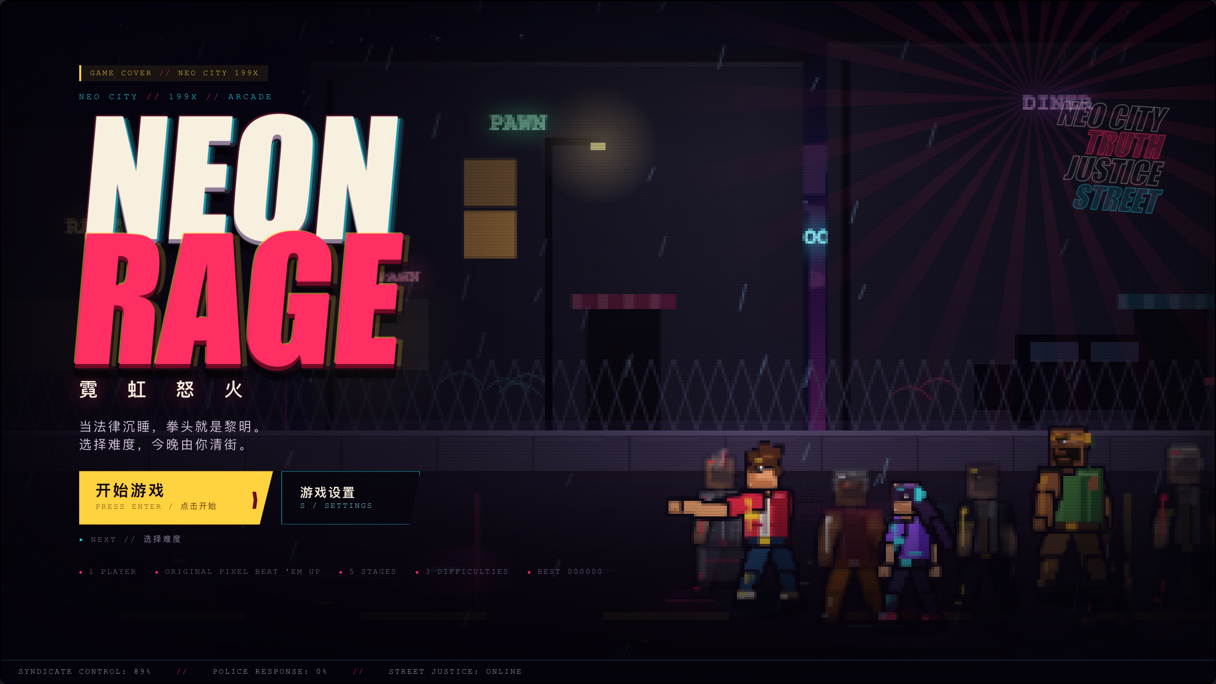
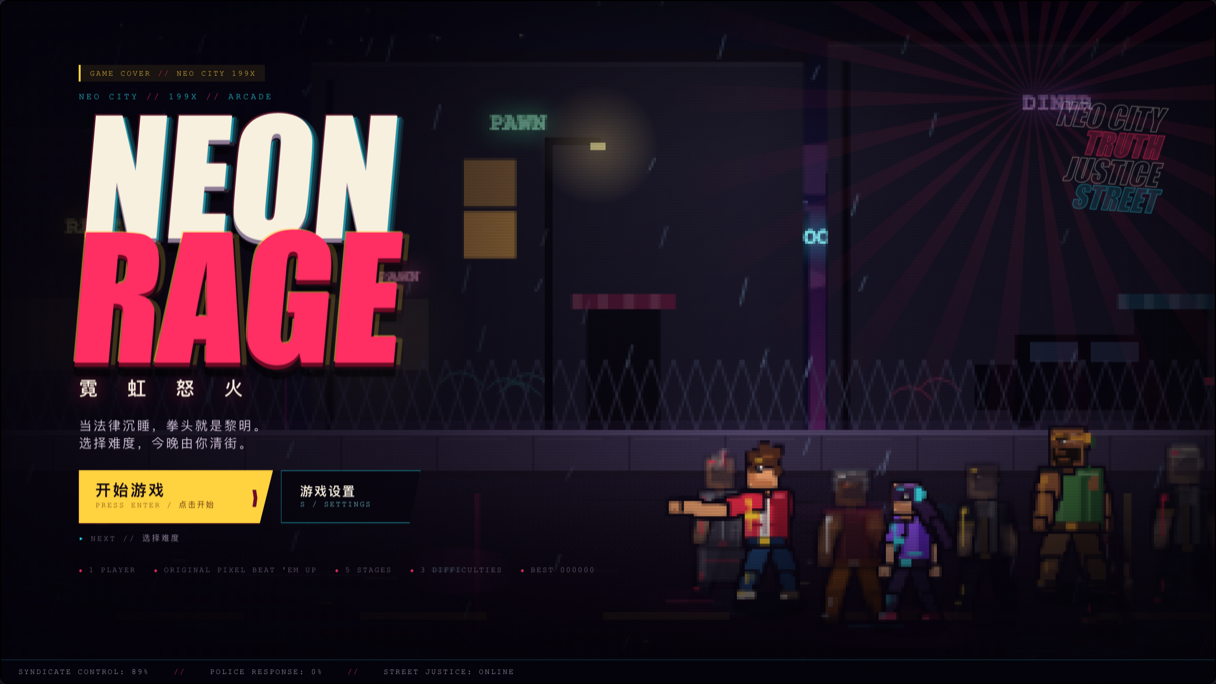
v0.2.3: larger frame, bigger settings text and dedicated boss BGM

diff --git a/neon-rage.html b/neon-rage.html
@@ -77,7 +77,7 @@ button:focus-visible, [tabindex]:focus-visible {
 
 .page {
   position: relative; z-index: 1;
-  width: min(1240px, calc(100% - 32px));
+  width: min(1488px, calc(100% - 16px));
   min-height: 100svh;
   margin: 0 auto;
   padding: 8px 0 6px;
@@ -1049,7 +1049,8 @@ body.touch-mode .toast { bottom: 30%; }
 
 @media (min-width: 900px) {
   body { overflow-y: auto; }
-  .page { min-height: 100svh; }
+  .page { min-height: 100svh; padding-bottom: 0; }
+  .cabinet { padding-bottom: 1px; }
 }
 @media (max-height: 900px) {
   .cabinet-footer { display: none; }
@@ -1177,6 +1178,65 @@ body.touch-mode .toast { bottom: 30%; }
     transition-duration: .001ms !important;
     scroll-behavior: auto !important;
   }
+}
+
+
+/* ————— enlarged game frame / settings readability ————— */
+.settings-card {
+  width: min(94cqw, 1320px);
+  max-height: 94%;
+  padding: 1.4cqw 1.6cqw 1cqw;
+}
+.settings-head h2 { font-size: clamp(24px, 4.4cqw, 58px); }
+.settings-head p { font-size: clamp(14px, 1.08cqw, 18px); }
+.settings-head .ghost-btn { font-size: clamp(12px, .9cqw, 15px); padding: .7cqw 1cqw; }
+.settings-tabs { gap: .45cqw; margin-top: 1cqw; padding-bottom: .65cqw; }
+.settings-tab { font-size: clamp(14px, 1.3cqw, 20px); padding: .55cqw 1.05cqw; }
+.settings-body { padding: .9cqw .35cqw .65cqw; }
+.settings-panel-title { gap: .7cqw; margin-bottom: .7cqw; }
+.settings-panel-title b { font-size: clamp(13px, 1.1cqw, 17px); }
+.settings-panel-title span { font-size: clamp(13px, 1.08cqw, 17px); }
+.music-options { gap: .55cqw; }
+.music-option { gap: .8cqw; padding: .7cqw .85cqw; }
+.music-copy b { font-size: clamp(17px, 1.4cqw, 22px); }
+.music-copy em { font-size: clamp(14px, 1.08cqw, 18px); }
+.music-copy small { font-size: clamp(14px, 1.06cqw, 18px); line-height: 1.4; }
+.music-tag { font-size: clamp(10px, .78cqw, 13px); }
+.music-radio { width: 1.2cqw; height: 1.2cqw; min-width: 12px; min-height: 12px; }
+.settings-note { font-size: clamp(14px, 1.08cqw, 18px); margin-top: .8cqw; }
+.settings-keys { gap: .55cqw 1.1cqw; }
+.settings-keys div { font-size: clamp(14px, 1.15cqw, 18px); }
+.settings-keys kbd { font-size: clamp(12px, 1.0cqw, 15px); }
+.settings-guide { gap: .5cqw; }
+.settings-guide li { font-size: clamp(16px, 1.28cqw, 20px); line-height: 1.55; padding-left: 1.1cqw; }
+.settings-about p { font-size: clamp(15px, 1.2cqw, 19px); line-height: 1.6; margin-bottom: .7cqw; }
+.settings-about .fineprint { font-size: clamp(12px, .98cqw, 16px); }
+.settings-foot { padding-top: .7cqw; }
+.settings-foot > span { font-size: clamp(11px, .9cqw, 15px); }
+.settings-foot .arcade-btn.compact { min-width: 13cqw; padding: .7cqw 2.3cqw .75cqw 1.1cqw; }
+.settings-foot .arcade-btn.compact .btn-main { font-size: clamp(13px, 1.05cqw, 17px); }
+.settings-foot .arcade-btn.compact .btn-sub { font-size: clamp(9px, .65cqw, 12px); }
+.settings-foot .arcade-btn.compact::after { font-size: 2cqw; }
+
+@media (max-width: 700px) {
+  .settings-card { width: 96cqw; padding: 1cqw 1.1cqw .7cqw; }
+  .settings-head h2 { font-size: clamp(20px, 5cqw, 28px); }
+  .settings-head .ghost-btn { font-size: clamp(9px, 2.4cqw, 13px); }
+  .settings-tab { font-size: clamp(9px, 2.7cqw, 14px); padding: .4cqw .6cqw; }
+  .settings-body { padding: .55cqw .2cqw .4cqw; }
+  .settings-panel-title b, .settings-panel-title span { font-size: clamp(9px, 2.3cqw, 13px); }
+  .music-copy b { font-size: clamp(13px, 3.2cqw, 17px); }
+  .music-copy em, .music-copy small { font-size: clamp(10px, 2.6cqw, 14px); }
+  .music-option { padding: .5cqw .55cqw; gap: .45cqw; }
+  .music-tag { font-size: clamp(7px, 1.8cqw, 10px); }
+  .settings-note { font-size: clamp(9px, 2.3cqw, 12px); }
+  .settings-keys div { font-size: clamp(10px, 2.6cqw, 14px); }
+  .settings-keys kbd { font-size: clamp(8px, 2.1cqw, 11px); }
+  .settings-guide li { font-size: clamp(11px, 2.8cqw, 14px); line-height: 1.45; }
+  .settings-about p { font-size: clamp(11px, 2.7cqw, 14px); }
+  .settings-about .fineprint { font-size: clamp(8px, 2.0cqw, 11px); }
+  .settings-foot .arcade-btn.compact { min-width: 20cqw; padding: .5cqw 1.6cqw .55cqw .8cqw; }
+  .settings-foot .arcade-btn.compact .btn-main { font-size: clamp(9px, 2.3cqw, 13px); }
 }
 
   </style>
@@ -1705,6 +1765,27 @@ body.touch-mode .toast { bottom: 30%; }
       lead: [24, null, 22, null, 19, null, 22, 24, 27, null, 24, 22, 19, 17, 15, 12],
       chords: [0, 0, -2, -3],
       hat: 1, snare: 1
+    },
+    bossRazor: {
+      bpm: 152, root: 37, gain: 1.03,
+      bass: [0, null, 0, 7, 0, null, 10, null, 0, 7, null, 3, 5, null, 7, 10],
+      lead: [19, null, 22, 24, null, 22, 19, 15, 19, 22, null, 24, 27, 24, 22, 19],
+      chords: [0, -2, 3, 5],
+      hat: .95, snare: 1
+    },
+    bossTitan: {
+      bpm: 132, root: 32, gain: 1.08,
+      bass: [0, null, null, 0, null, null, 0, 3, 0, null, null, 0, 5, null, 3, 2],
+      lead: [12, null, 15, null, 12, null, 7, null, 10, null, 12, 15, null, 17, 15, 12],
+      chords: [0, -3, 0, -5],
+      hat: .7, snare: 1
+    },
+    bossVector: {
+      bpm: 158, root: 40, gain: 1.02,
+      bass: [0, 0, 7, 0, 3, 3, 10, 3, 0, 0, 7, 0, 5, 5, 12, 7],
+      lead: [19, 22, 24, 22, 27, 24, 22, 19, 24, 27, 31, 27, 24, 22, 19, 15],
+      chords: [0, 3, 7, 5],
+      hat: 1, snare: .95
     },
     clear: {
       bpm: 124, root: 48, gain: 0.9,
@@ -4609,6 +4690,10 @@ body.touch-mode .toast { bottom: 30%; }
   const MUSIC_PACK_LABELS = {
     classic: 'NEON CLASSIC', midnight: 'MIDNIGHT DRIVE', steel: 'STEEL PULSE'
   };
+  const BOSS_TRACKS = {
+    razor: 'bossRazor', titan: 'bossTitan', vector: 'bossVector',
+    twin: 'twin', final: 'final'
+  };
 
   function makeUpgradeState() {
     return {
@@ -4770,7 +4855,7 @@ body.touch-mode .toast { bottom: 30%; }
     {
       number: '01', title: 'DOCKSIDE 9', cn: '第九码头',
       desc: '雨把整座城市洗成霓虹色。今晚，码头不接货，只接拳头。',
-      goal: '清空第九码头', worldW: 2460, music: 'stage1', bossMusic: 'boss',
+      goal: '清空第九码头', worldW: 2460, music: 'stage1', bossMusic: 'bossRazor',
       waves: [
         { at: 300, spawns: [['punk', 210], ['punk', 242]] },
         { at: 760, spawns: [['punk', 204], ['boxer', 238], ['kicker', 218], ['siren', 248]] },
@@ -4793,7 +4878,7 @@ body.touch-mode .toast { bottom: 30%; }
     {
       number: '02', title: 'LINE 07', cn: '七号轻轨',
       desc: '末班车已经停运。站台上等你的，是一整队带刀的人。',
-      goal: '夺回七号轻轨', worldW: 2520, music: 'stage2', bossMusic: 'boss',
+      goal: '夺回七号轻轨', worldW: 2520, music: 'stage2', bossMusic: 'bossTitan',
       waves: [
         { at: 290, spawns: [['blade', 212], ['boxer', 240]] },
         { at: 720, spawns: [['kicker', 204], ['gunner', 238], ['viper', 220]] },
@@ -4816,7 +4901,7 @@ body.touch-mode .toast { bottom: 30%; }
     {
       number: '03', title: 'V-TOWER ROOF', cn: 'V 塔天台',
       desc: '天快亮了。城市最高的地方，V 先生的影子守在门前。',
-      goal: '击溃 V 先生的代理人', worldW: 2500, music: 'stage3', bossMusic: 'boss',
+      goal: '击溃 V 先生的代理人', worldW: 2500, music: 'stage3', bossMusic: 'bossVector',
       waves: [
         { at: 280, spawns: [['kicker', 208], ['boxer', 238]] },
         { at: 700, spawns: [['brute', 226], ['gunner', 206], ['viper', 244]] },
@@ -5595,7 +5680,7 @@ body.touch-mode .toast { bottom: 30%; }
     if (isBoss) {
       if (wave.boss === 'twin') announce('WARNING', 'TWIN BOSS // 双子守卫', '#ff2e63', 2.4);
       else if (wave.boss === 'final') announce('WARNING', 'V-PRIME // 最终形态', '#ff2e63', 2.6);
-      Sound.playTrack(wave.boss === 'twin' ? 'twin' : wave.boss === 'final' ? 'final' : 'boss');
+      Sound.playTrack(BOSS_TRACKS[wave.boss] || G.stage.bossMusic || 'boss');
       G.finishing = false;
       beginBossTalk(wave.boss);
     }

diff --git a/styles.css b/styles.css
@@ -67,7 +67,7 @@ button:focus-visible, [tabindex]:focus-visible {
 
 .page {
   position: relative; z-index: 1;
-  width: min(1240px, calc(100% - 32px));
+  width: min(1488px, calc(100% - 16px));
   min-height: 100svh;
   margin: 0 auto;
   padding: 8px 0 6px;
@@ -1039,7 +1039,8 @@ body.touch-mode .toast { bottom: 30%; }
 
 @media (min-width: 900px) {
   body { overflow-y: auto; }
-  .page { min-height: 100svh; }
+  .page { min-height: 100svh; padding-bottom: 0; }
+  .cabinet { padding-bottom: 1px; }
 }
 @media (max-height: 900px) {
   .cabinet-footer { display: none; }
@@ -1167,4 +1168,63 @@ body.touch-mode .toast { bottom: 30%; }
     transition-duration: .001ms !important;
     scroll-behavior: auto !important;
   }
+}
+
+
+/* ————— enlarged game frame / settings readability ————— */
+.settings-card {
+  width: min(94cqw, 1320px);
+  max-height: 94%;
+  padding: 1.4cqw 1.6cqw 1cqw;
+}
+.settings-head h2 { font-size: clamp(24px, 4.4cqw, 58px); }
+.settings-head p { font-size: clamp(14px, 1.08cqw, 18px); }
+.settings-head .ghost-btn { font-size: clamp(12px, .9cqw, 15px); padding: .7cqw 1cqw; }
+.settings-tabs { gap: .45cqw; margin-top: 1cqw; padding-bottom: .65cqw; }
+.settings-tab { font-size: clamp(14px, 1.3cqw, 20px); padding: .55cqw 1.05cqw; }
+.settings-body { padding: .9cqw .35cqw .65cqw; }
+.settings-panel-title { gap: .7cqw; margin-bottom: .7cqw; }
+.settings-panel-title b { font-size: clamp(13px, 1.1cqw, 17px); }
+.settings-panel-title span { font-size: clamp(13px, 1.08cqw, 17px); }
+.music-options { gap: .55cqw; }
+.music-option { gap: .8cqw; padding: .7cqw .85cqw; }
+.music-copy b { font-size: clamp(17px, 1.4cqw, 22px); }
+.music-copy em { font-size: clamp(14px, 1.08cqw, 18px); }
+.music-copy small { font-size: clamp(14px, 1.06cqw, 18px); line-height: 1.4; }
+.music-tag { font-size: clamp(10px, .78cqw, 13px); }
+.music-radio { width: 1.2cqw; height: 1.2cqw; min-width: 12px; min-height: 12px; }
+.settings-note { font-size: clamp(14px, 1.08cqw, 18px); margin-top: .8cqw; }
+.settings-keys { gap: .55cqw 1.1cqw; }
+.settings-keys div { font-size: clamp(14px, 1.15cqw, 18px); }
+.settings-keys kbd { font-size: clamp(12px, 1.0cqw, 15px); }
+.settings-guide { gap: .5cqw; }
+.settings-guide li { font-size: clamp(16px, 1.28cqw, 20px); line-height: 1.55; padding-left: 1.1cqw; }
+.settings-about p { font-size: clamp(15px, 1.2cqw, 19px); line-height: 1.6; margin-bottom: .7cqw; }
+.settings-about .fineprint { font-size: clamp(12px, .98cqw, 16px); }
+.settings-foot { padding-top: .7cqw; }
+.settings-foot > span { font-size: clamp(11px, .9cqw, 15px); }
+.settings-foot .arcade-btn.compact { min-width: 13cqw; padding: .7cqw 2.3cqw .75cqw 1.1cqw; }
+.settings-foot .arcade-btn.compact .btn-main { font-size: clamp(13px, 1.05cqw, 17px); }
+.settings-foot .arcade-btn.compact .btn-sub { font-size: clamp(9px, .65cqw, 12px); }
+.settings-foot .arcade-btn.compact::after { font-size: 2cqw; }
+
+@media (max-width: 700px) {
+  .settings-card { width: 96cqw; padding: 1cqw 1.1cqw .7cqw; }
+  .settings-head h2 { font-size: clamp(20px, 5cqw, 28px); }
+  .settings-head .ghost-btn { font-size: clamp(9px, 2.4cqw, 13px); }
+  .settings-tab { font-size: clamp(9px, 2.7cqw, 14px); padding: .4cqw .6cqw; }
+  .settings-body { padding: .55cqw .2cqw .4cqw; }
+  .settings-panel-title b, .settings-panel-title span { font-size: clamp(9px, 2.3cqw, 13px); }
+  .music-copy b { font-size: clamp(13px, 3.2cqw, 17px); }
+  .music-copy em, .music-copy small { font-size: clamp(10px, 2.6cqw, 14px); }
+  .music-option { padding: .5cqw .55cqw; gap: .45cqw; }
+  .music-tag { font-size: clamp(7px, 1.8cqw, 10px); }
+  .settings-note { font-size: clamp(9px, 2.3cqw, 12px); }
+  .settings-keys div { font-size: clamp(10px, 2.6cqw, 14px); }
+  .settings-keys kbd { font-size: clamp(8px, 2.1cqw, 11px); }
+  .settings-guide li { font-size: clamp(11px, 2.8cqw, 14px); line-height: 1.45; }
+  .settings-about p { font-size: clamp(11px, 2.7cqw, 14px); }
+  .settings-about .fineprint { font-size: clamp(8px, 2.0cqw, 11px); }
+  .settings-foot .arcade-btn.compact { min-width: 20cqw; padding: .5cqw 1.6cqw .55cqw .8cqw; }
+  .settings-foot .arcade-btn.compact .btn-main { font-size: clamp(9px, 2.3cqw, 13px); }
 }

diff --git a/js/game.js b/js/game.js
@@ -192,6 +192,10 @@
   const MUSIC_PACK_LABELS = {
     classic: 'NEON CLASSIC', midnight: 'MIDNIGHT DRIVE', steel: 'STEEL PULSE'
   };
+  const BOSS_TRACKS = {
+    razor: 'bossRazor', titan: 'bossTitan', vector: 'bossVector',
+    twin: 'twin', final: 'final'
+  };
 
   function makeUpgradeState() {
     return {
@@ -353,7 +357,7 @@
     {
       number: '01', title: 'DOCKSIDE 9', cn: '第九码头',
       desc: '雨把整座城市洗成霓虹色。今晚，码头不接货，只接拳头。',
-      goal: '清空第九码头', worldW: 2460, music: 'stage1', bossMusic: 'boss',
+      goal: '清空第九码头', worldW: 2460, music: 'stage1', bossMusic: 'bossRazor',
       waves: [
         { at: 300, spawns: [['punk', 210], ['punk', 242]] },
         { at: 760, spawns: [['punk', 204], ['boxer', 238], ['kicker', 218], ['siren', 248]] },
@@ -376,7 +380,7 @@
     {
       number: '02', title: 'LINE 07', cn: '七号轻轨',
       desc: '末班车已经停运。站台上等你的，是一整队带刀的人。',
-      goal: '夺回七号轻轨', worldW: 2520, music: 'stage2', bossMusic: 'boss',
+      goal: '夺回七号轻轨', worldW: 2520, music: 'stage2', bossMusic: 'bossTitan',
       waves: [
         { at: 290, spawns: [['blade', 212], ['boxer', 240]] },
         { at: 720, spawns: [['kicker', 204], ['gunner', 238], ['viper', 220]] },
@@ -399,7 +403,7 @@
     {
       number: '03', title: 'V-TOWER ROOF', cn: 'V 塔天台',
       desc: '天快亮了。城市最高的地方，V 先生的影子守在门前。',
-      goal: '击溃 V 先生的代理人', worldW: 2500, music: 'stage3', bossMusic: 'boss',
+      goal: '击溃 V 先生的代理人', worldW: 2500, music: 'stage3', bossMusic: 'bossVector',
       waves: [
         { at: 280, spawns: [['kicker', 208], ['boxer', 238]] },
         { at: 700, spawns: [['brute', 226], ['gunner', 206], ['viper', 244]] },
@@ -1178,7 +1182,7 @@
     if (isBoss) {
       if (wave.boss === 'twin') announce('WARNING', 'TWIN BOSS // 双子守卫', '#ff2e63', 2.4);
       else if (wave.boss === 'final') announce('WARNING', 'V-PRIME // 最终形态', '#ff2e63', 2.6);
-      Sound.playTrack(wave.boss === 'twin' ? 'twin' : wave.boss === 'final' ? 'final' : 'boss');
+      Sound.playTrack(BOSS_TRACKS[wave.boss] || G.stage.bossMusic || 'boss');
       G.finishing = false;
       beginBossTalk(wave.boss);
     }

diff --git a/js/audio.js b/js/audio.js
@@ -75,6 +75,27 @@
       chords: [0, 0, -2, -3],
       hat: 1, snare: 1
     },
+    bossRazor: {
+      bpm: 152, root: 37, gain: 1.03,
+      bass: [0, null, 0, 7, 0, null, 10, null, 0, 7, null, 3, 5, null, 7, 10],
+      lead: [19, null, 22, 24, null, 22, 19, 15, 19, 22, null, 24, 27, 24, 22, 19],
+      chords: [0, -2, 3, 5],
+      hat: .95, snare: 1
+    },
+    bossTitan: {
+      bpm: 132, root: 32, gain: 1.08,
+      bass: [0, null, null, 0, null, null, 0, 3, 0, null, null, 0, 5, null, 3, 2],
+      lead: [12, null, 15, null, 12, null, 7, null, 10, null, 12, 15, null, 17, 15, 12],
+      chords: [0, -3, 0, -5],
+      hat: .7, snare: 1
+    },
+    bossVector: {
+      bpm: 158, root: 40, gain: 1.02,
+      bass: [0, 0, 7, 0, 3, 3, 10, 3, 0, 0, 7, 0, 5, 5, 12, 7],
+      lead: [19, 22, 24, 22, 27, 24, 22, 19, 24, 27, 31, 27, 24, 22, 19, 15],
+      chords: [0, 3, 7, 5],
+      hat: 1, snare: .95
+    },
     clear: {
       bpm: 124, root: 48, gain: 0.9,
       bass: [0, 0, null, 0, 7, null, 0, null, 5, null, 7, null, 12, null, null, null],

diff --git a/README.md b/README.md
@@ -1,6 +1,6 @@
 # NEON RAGE · 霓虹怒火
 
-**v0.2.2** · 原创 16-bit 风格横版清关动作游戏，致敬《怒之铁拳》的三人组、街头清版、武器与 Boss 战结构。所有角色、像素画面、关卡与音乐均为程序化原创，不使用原作素材。
+**v0.2.3** · 原创 16-bit 风格横版清关动作游戏，致敬《怒之铁拳》的三人组、街头清版、武器与 Boss 战结构。所有角色、像素画面、关卡与音乐均为程序化原创，不使用原作素材。
 
 ## 直接开玩
 
@@ -36,7 +36,7 @@ python3 -m http.server 8000
 ## 核心系统
 
 - **单屏封面与设置**：开始游戏旁打开设置页；操作、生存守则、关于与 BGM 均在游戏内设置中。
-- **三组 BGM**：NEON CLASSIC / MIDNIGHT DRIVE / STEEL PULSE，可随时切换并保存。
+- **三组 BGM**：NEON CLASSIC / MIDNIGHT DRIVE / STEEL PULSE，可随时切换并保存；五关 Boss 各有专属战斗曲。
 - **斗士强化**：移动速度、攻击速度、防御各 3 级；每级吃 3 枚芯片，芯片藏在发光强化油桶里。
 - **封面与难度**：开屏封面主菜单进入 EASY / NORMAL / HARD；难度影响敌人 HP、玩家受伤和初始生命。
 - **Boss 出场对话**：五关 Boss 登场时冻结战斗并播放背景/叫嚣台词，可自动推进或跳过；双子各有一句。

diff --git a/CHANGELOG.md b/CHANGELOG.md
@@ -1,5 +1,11 @@
 # Changelog
 
+## v0.2.3 — 2026-10-23
+
+- 游戏框最大宽度从 1240px 提升到 1488px，宽屏下约放大 20%。
+- 设置页内容字号提升到原来的约 200%，并扩大设置面板。
+- 新增 RAZOR / TITAN / VECTOR 专属 Boss 战 BGM；双子与 V-PRIME 继续使用各自曲目。
+
 ## v0.2.2 — 2026-10-23
 
 - 封面改为单屏，并在「开始游戏」旁增加「游戏设置」。
